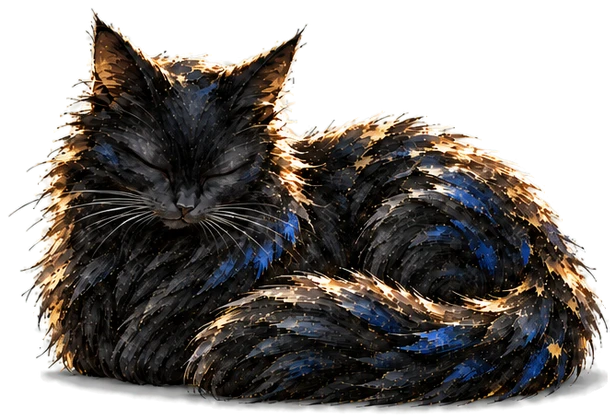
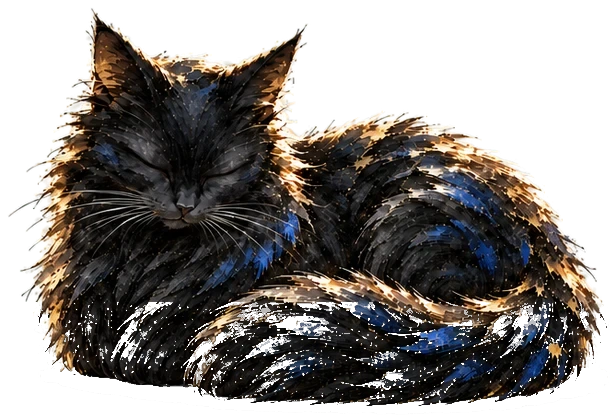
design(cle-studio): the blink closes on the next room's painting and opens onto the same picture; mascot without its plate
- oil blink: the lids carry the room's full painting where its backdrop will stand (decoded before the
  lids meet), name and line set at the left like the welcome
- pet-loaf/-closed/-sit: removed the grey cut-out plate under him (read as a sticker base)

Changed region(s): [[0.0617, 0.7119, 0.987, 0.9905], [0.1542, 0.7119, 0.2776, 0.8667], [0.6169, 0.7429, 0.7094, 0.8048]]

diff --git a/services/cle-studio/src/rooms/rooms.css b/services/cle-studio/src/rooms/rooms.css
@@ -69,7 +69,17 @@ html[data-cle] .sidebar-workspace-header__mark { width: 22px !important; height:
 /* 油画: the painting shows through the paper as a wash, full-bleed, never framed */
 .cle-blink__veil i { position: absolute; left: 0; right: 0; height: 100vh; opacity: 0; mix-blend-mode: luminosity;
   background: var(--cle-blink-wash, none) center 30% / cover no-repeat; filter: blur(2px); }
-.cle-blink[data-style="oil"] .cle-blink__veil i { opacity: .22; }
+.cle-blink[data-style="oil"] .cle-blink__veil i { opacity: 1; mix-blend-mode: normal; filter: none;
+  /* the painting stands where the room's backdrop will stand, so the eye opens onto the same picture */
+  left: auto; right: 0; width: min(100vw, 68vh, 760px); background-position: center 28%; background-size: cover;
+  -webkit-mask-image: linear-gradient(90deg, transparent 0%, rgba(0,0,0,.35) 16%, rgba(0,0,0,.8) 34%, #000 52%);
+  mask-image: linear-gradient(90deg, transparent 0%, rgba(0,0,0,.35) 16%, rgba(0,0,0,.8) 34%, #000 52%); }
+html[data-pinkie-night] .cle-blink[data-style="oil"] .cle-blink__veil i { filter: brightness(.62) saturate(.92); }
+.cle-blink[data-style="oil"] .cle-blink__veil { background: color-mix(in srgb, var(--cle-paper) 96%, transparent); }
+.cle-blink[data-style="oil"] .cle-blink__face { left: clamp(24px, 12vw, 220px); translate: 0 -50%; justify-items: start; text-align: left; width: min(440px, 46vw); }
+.cle-blink[data-style="oil"] .cle-blink__zh { padding-left: 0; font-size: 40px; }
+.cle-blink[data-style="oil"] .cle-blink__line { font: 400 16px/1.6 var(--cle-serif); letter-spacing: .1em; color: var(--cle-ink-2); }
+@media (max-width: 760px) { .cle-blink[data-style="oil"] .cle-blink__veil i { width: 100vw; } .cle-blink[data-style="oil"] .cle-blink__face { left: 16px; top: auto; bottom: 14vh; translate: 0 0; } }
 .cle-blink__veil--top i { top: 0; } .cle-blink__veil--bottom i { bottom: 0; }
 /* the gaze: one hairline where the lids meet */
 .cle-blink__seam { position: absolute; left: 0; right: 0; top: 50%; height: 1px; margin-top: -.5px; opacity: 0;

diff --git a/services/cle-studio/src/rooms/blink.js b/services/cle-studio/src/rooms/blink.js
@@ -42,6 +42,8 @@ export async function blink(room, during) {
   el.style.removeProperty('--cle-blink-wash');
   if (!lineMode) el.style.setProperty('--cle-blink-wash', `url("${roomArt(room.id)}")`);
   el.dataset.style = lineMode ? 'line' : 'oil';
+  // the painting must already be decoded when the lids meet, or they close on an empty frame
+  if (!lineMode) { const img = new Image(); img.src = roomArt(room.id); await Promise.race([img.decode?.().catch(() => {}), wait(260)]); }
   $('.cle-blink__fr').textContent = room.fr;
   $('.cle-blink__zh').textContent = room.zh;
   $('.cle-blink__line').textContent = room.line || '';
